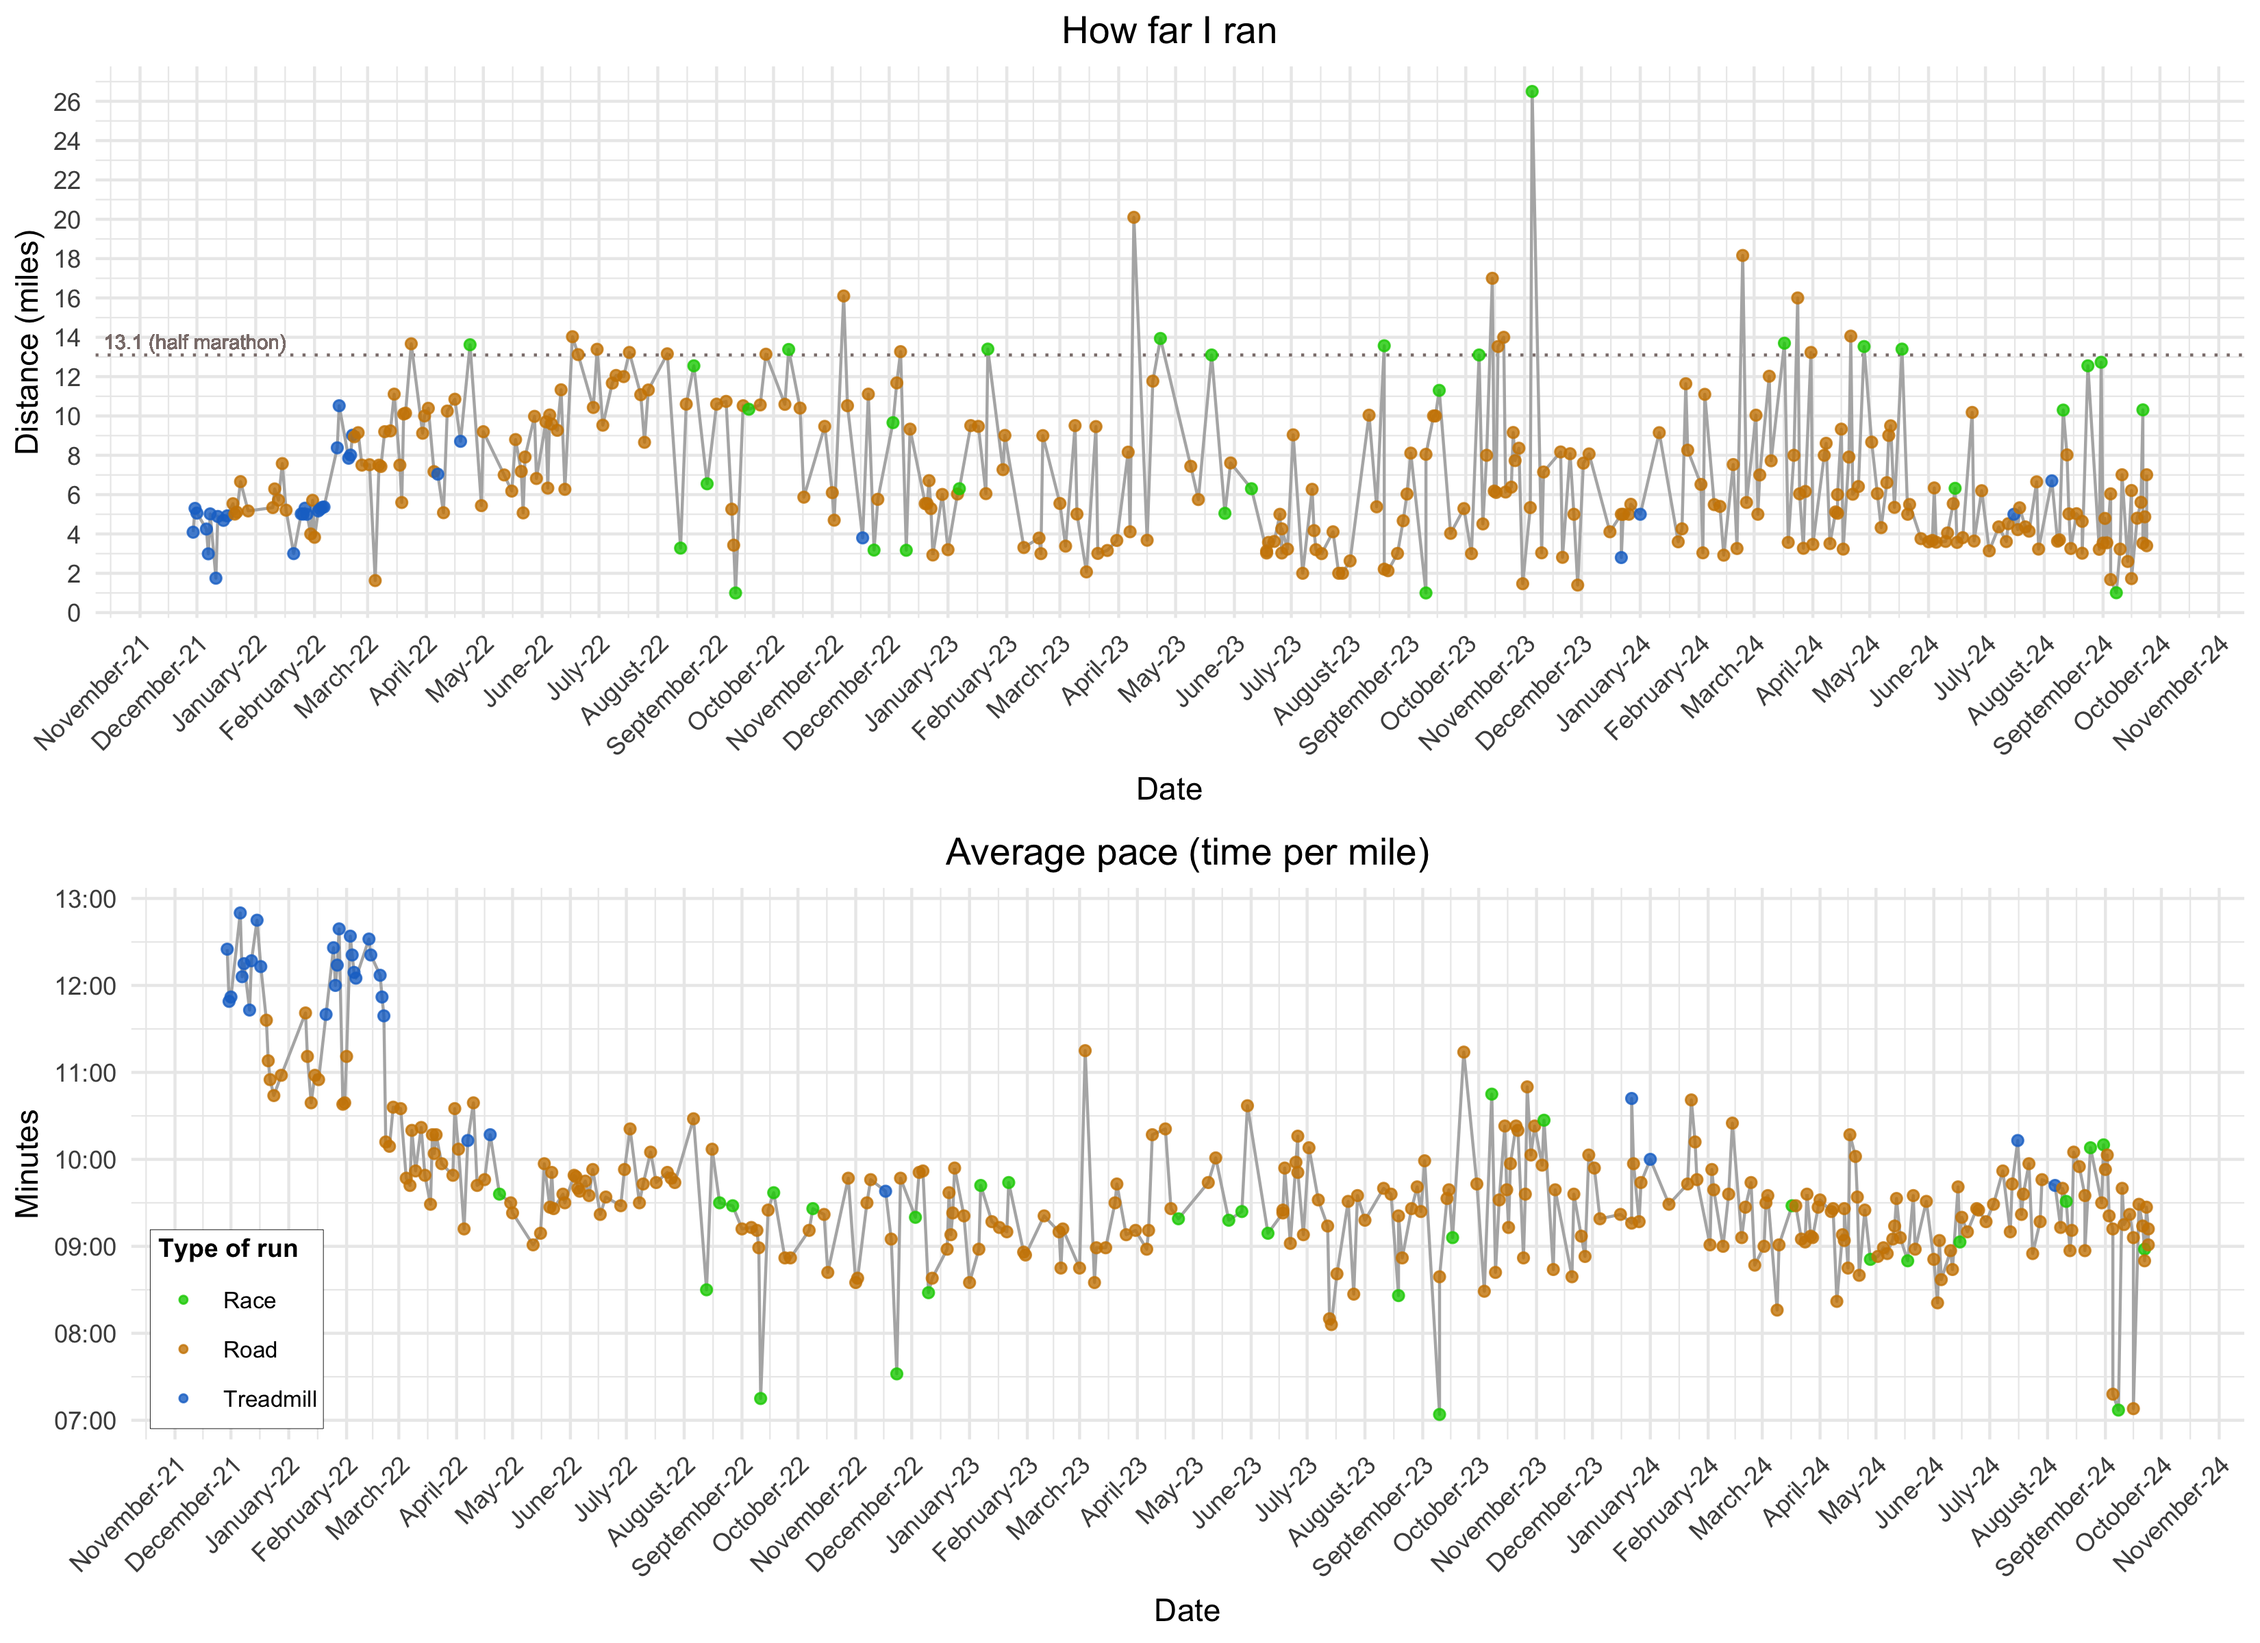
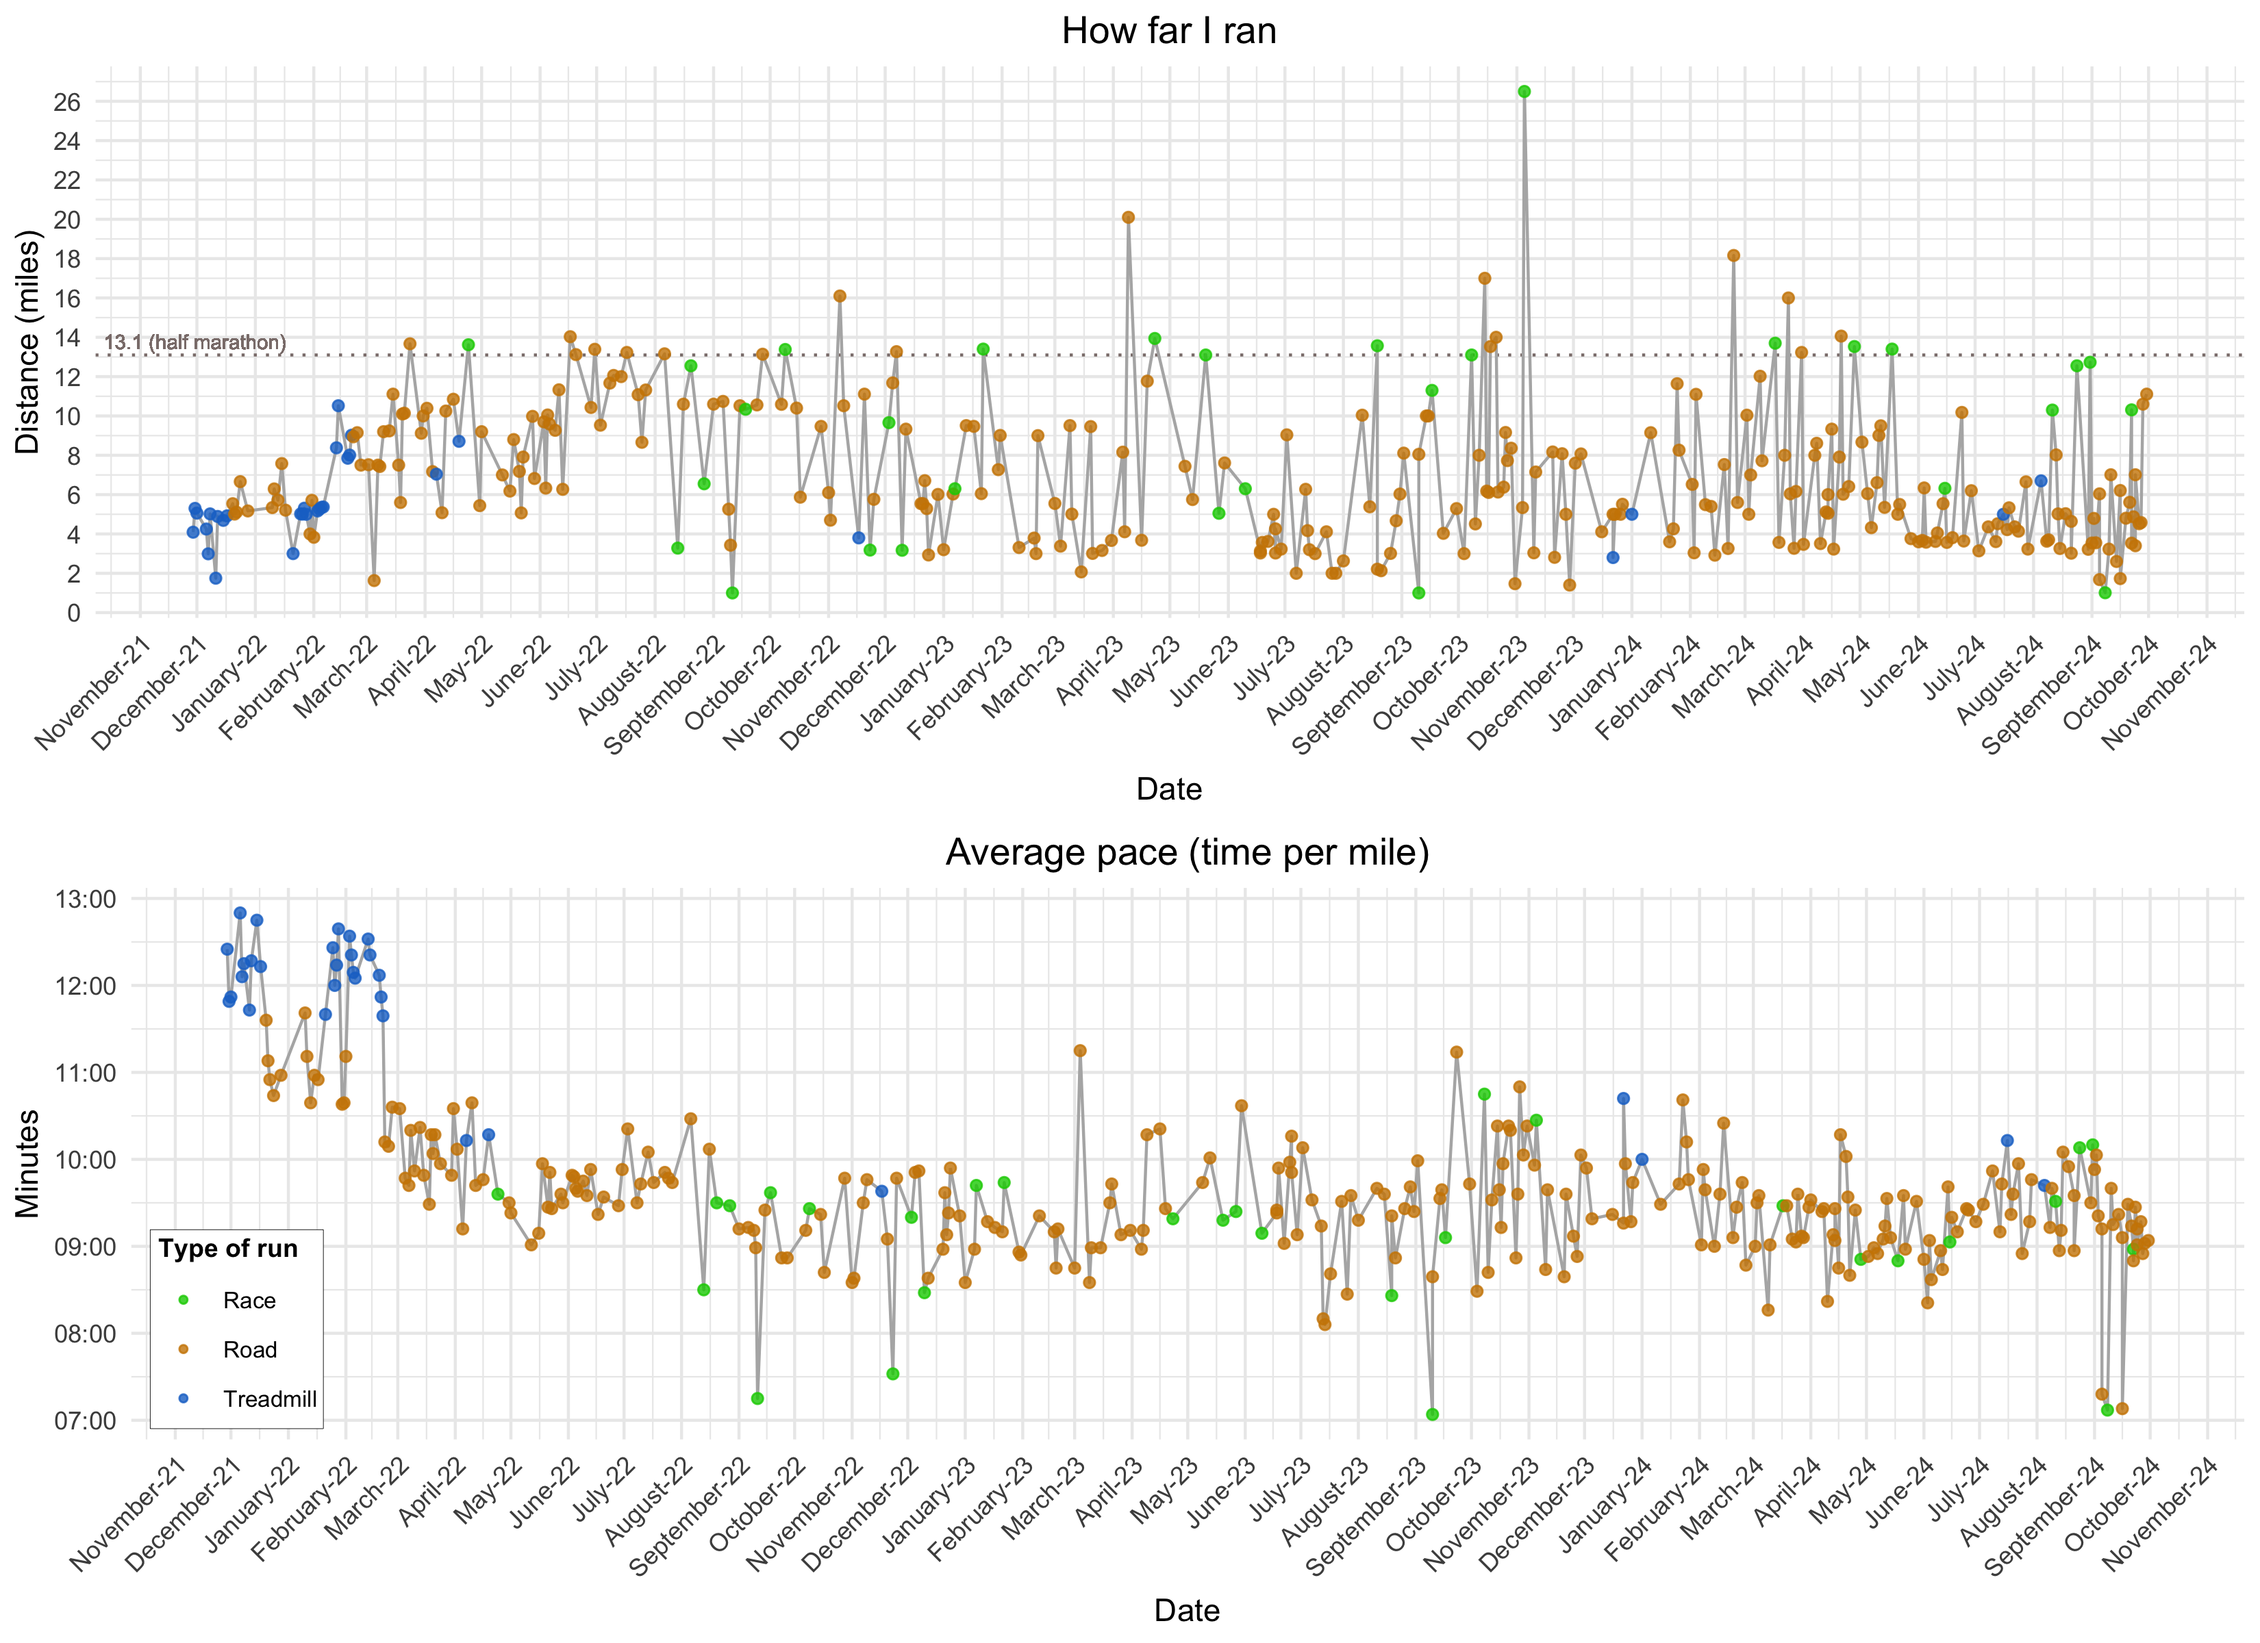
9/26/24 - 9/30/24

diff --git a/README.md b/README.md
@@ -41,7 +41,7 @@ Total miles since 11/29/21:
 sum(runningData$Miles)
 ```
 
-    ## [1] 2333.38
+    ## [1] 2364.19
 
 Average distance over last ten runs:
 
@@ -49,4 +49,4 @@ Average distance over last ten runs:
 mean(tail(runningData$Miles, 10))
 ```
 
-    ## [1] 5.007
+    ## [1] 6.554
